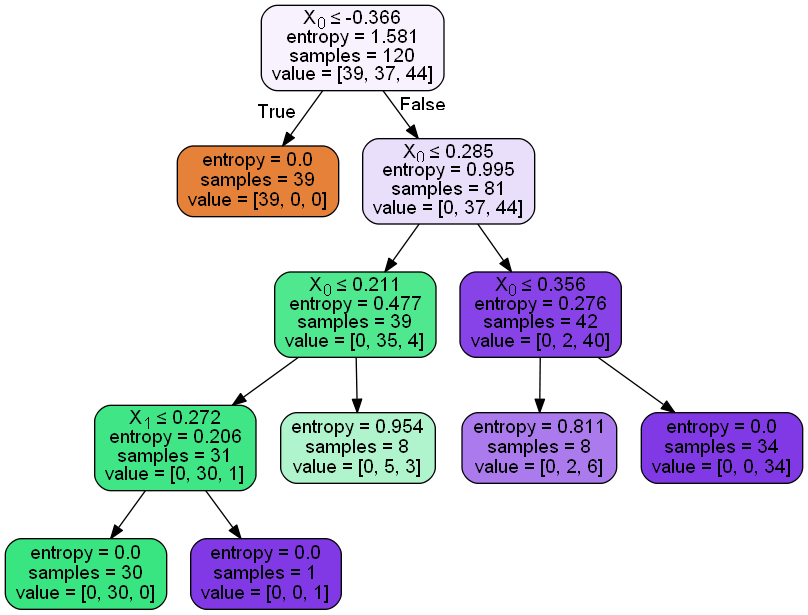
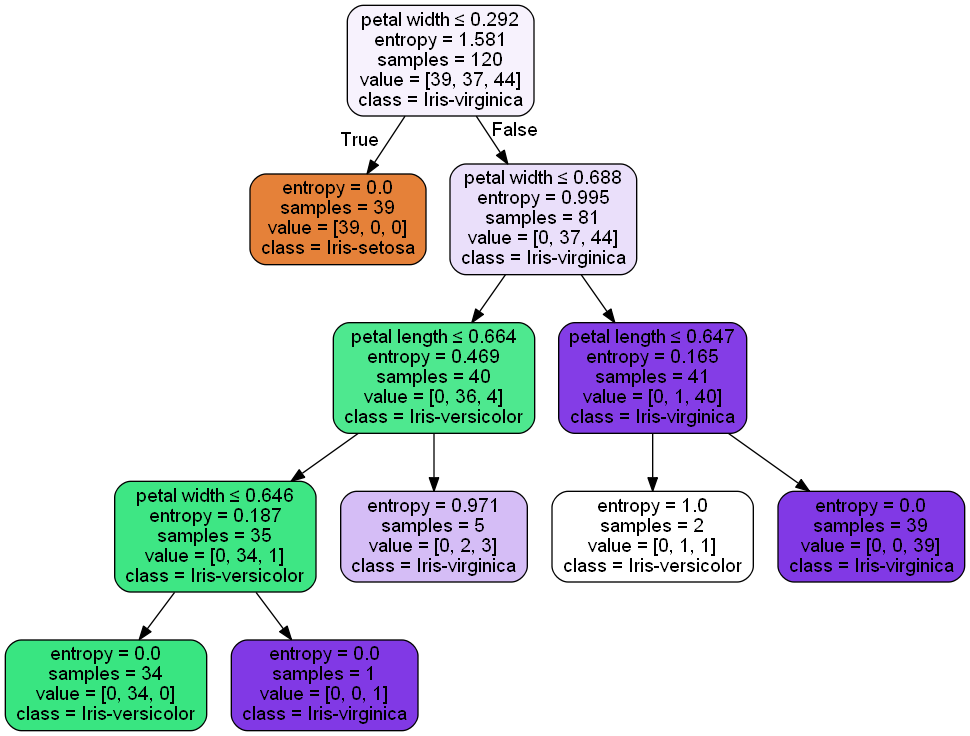
d决策树

Changed region(s): [[0.0, 0.0, 1.0, 1.0], [0.7735, 0.6179, 0.8045, 0.6488]]

diff --git a/04_决策树/11_分类决策树模型可视化.py b/04_决策树/11_分类决策树模型可视化.py
@@ -83,29 +83,29 @@ print ("原始数据各个特征属性的缩放数据值(max - min):",ss.scale_)
 k 默认为10，如果指定了，那么就会返回你所想要的特征的个数
 """
 
-ch2 = SelectKBest(chi2, k=3)  # 创建卡方系数模型
-X_train = ch2.fit_transform(X_train, Y_train)  # 训练模型，并转换
-X_test = ch2.transform(X_test)  # 在训练好的模型下转换
-select_name_index = ch2.get_support(indices=True)
-print ("对类别判断影响最大的三个特征属性分布是:",ch2.get_support(indices=False))
+# ch2 = SelectKBest(chi2, k=3)  # 创建卡方系数模型
+# X_train = ch2.fit_transform(X_train, Y_train)  # 训练模型，并转换
+# X_test = ch2.transform(X_test)  # 在训练好的模型下转换
+# select_name_index = ch2.get_support(indices=True)
+# print ("对类别判断影响最大的三个特征属性分布是:",ch2.get_support(indices=False))
 
 
-## c.降维
-"""
-降维：
-因为对于数据而言，如果特征属性比较多，在构建过程中，会比较复杂，这个时候考虑将多维（高维）映射到低维的数据
-常用方法：
-	PCA：主成分分析（无监督）
-	LDA：线性判别分析（有监督）
-"""
-pca = PCA(n_components = 2) # 构建一个pca模型对象，设置最终维度是2维
-# 这里是为了后面画图方便，所以将数据维度设置了2维，一般用默认不设置参数就可以
-X_train = pca.fit_transform(X_train)  # 训练模型并转换
-X_test = pca.transform(X_test)  # 转换
+# ## c.降维
+# """
+# 降维：
+# 因为对于数据而言，如果特征属性比较多，在构建过程中，会比较复杂，这个时候考虑将多维（高维）映射到低维的数据
+# 常用方法：
+# 	PCA：主成分分析（无监督）
+# 	LDA：线性判别分析（有监督）
+# """
+# pca = PCA(n_components = 2) # 构建一个pca模型对象，设置最终维度是2维
+# # 这里是为了后面画图方便，所以将数据维度设置了2维，一般用默认不设置参数就可以
+# X_train = pca.fit_transform(X_train)  # 训练模型并转换
+# X_test = pca.transform(X_test)  # 转换
 
 
 # 5.模型构建
-model = DecisionTreeClassifier(criterion='entropy', random_state=0, min_samples_split=10)  # 另外也可选gini, min_samples_split剪枝操作
+model = DecisionTreeClassifier(criterion='entropy', random_state=0, min_samples_split=2)  # 另外也可选gini, min_samples_split剪枝操作
 # 模型训练
 model.fit(X_train, Y_train)
 # 模型预测
@@ -134,26 +134,27 @@ print ("Classes:", model.classes_)  # 类别
 
 # 7.模型可视化
 ## a.方式一：输出形成dot文件，然后使用graphviz的dot命令将dot文件转换为pdf
-from sklearn import tree
-with open('iris.dot', 'w') as f:
-    # 将模型model输出到给定的文件中
-    f = tree.export_graphviz(model, out_file=f)
-# 命令行执行dot命令： dot -Tpdf iris.dot -o iris.pdf
+# from sklearn import tree
+# with open('iris.dot', 'w') as f:
+#     # 将模型model输出到给定的文件中
+#     f = tree.export_graphviz(model, out_file=f)
+# # 命令行执行dot命令： dot -Tpdf iris.dot -o iris.pdf
 
 ## b.方式二：直接使用pydotplus插件生成pdf文件 pip install pydotplus
-from sklearn import tree
-import pydotplus 
-dot_data = tree.export_graphviz(model, out_file=None) 
-graph = pydotplus.graph_from_dot_data(dot_data) 
-graph.write_pdf("iris2.pdf") 
-#graph.write_png("0.png")
+# from sklearn import tree
+# import pydotplus 
+# dot_data = tree.export_graphviz(model, out_file=None) 
+# graph = pydotplus.graph_from_dot_data(dot_data) 
+# graph.write_pdf("iris1.pdf") 
 
-## c.方式三：直接生成图片
+
+# ## c.方式三：直接生成图片(这里加了特征和标签，所以需要将前面的特征选择和降维去掉，不然特征数目不对应)
 from sklearn import tree
-from IPython.display import Image
 import pydotplus
-dot_data = tree.export_graphviz(model, out_file=None, 
-                         filled=True, rounded=True,  
-                         special_characters=True)  
+dot_data = tree.export_graphviz(model, out_file=None,
+						feature_names=['sepal length', 'sepal width', 'petal length', 'petal width'],  
+                        class_names=['Iris-setosa', 'Iris-versicolor', 'Iris-virginica'], 
+                        filled=True, rounded=True,  
+                        special_characters=True)  
 graph = pydotplus.graph_from_dot_data(dot_data)  
-graph.write_png("iris.png")
+graph.write_png("iris2.png")

diff --git a/04_决策树/10_回归决策树模型可视化.py b/04_决策树/10_回归决策树模型可视化.py
@@ -67,7 +67,6 @@ print ("Score：", dtr_score)
 
 # 7.可视化模型：直接生成图片
 from sklearn import tree
-from IPython.display import Image  
 import pydotplus
 dot_data = tree.export_graphviz(dtr, out_file=None,  
                          filled=True, rounded=True,  
